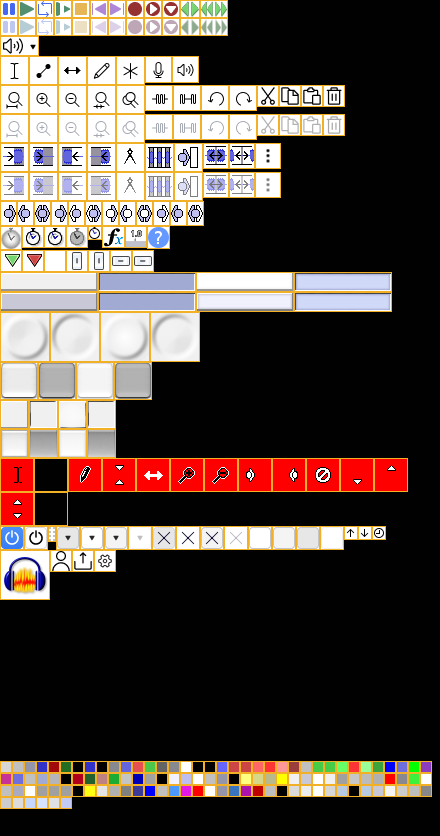
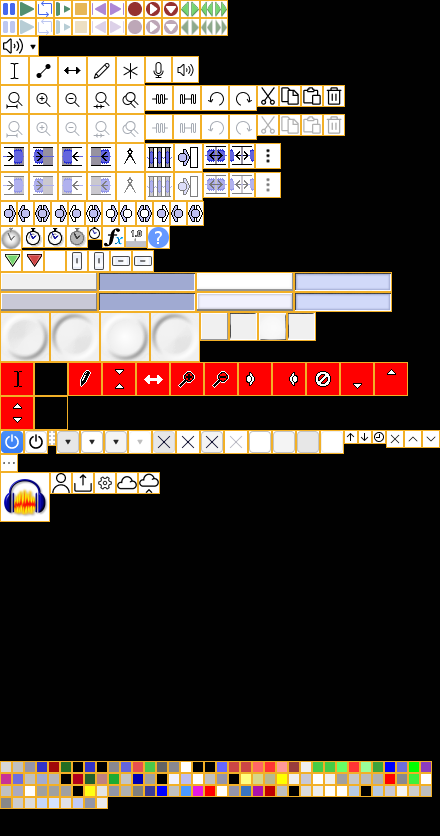
update classic theme

diff --git a/Classic/ImageCache.htm b/Classic/ImageCache.htm
@@ -119,54 +119,52 @@
 <area title="Bitmap:DownButtonLarge" shape=rect coords="51,313,98,360">
 <area title="Bitmap:HiliteUpButtonLarge" shape=rect coords="101,313,148,360">
 <area title="Bitmap:HiliteButtonLarge" shape=rect coords="151,313,198,360">
-<area title="Bitmap:MacUpButton" shape=rect coords="1,363,36,398">
-<area title="Bitmap:MacDownButton" shape=rect coords="39,363,74,398">
-<area title="Bitmap:MacHiliteUpButton" shape=rect coords="77,363,112,398">
-<area title="Bitmap:MacHiliteButton" shape=rect coords="115,363,150,398">
-<area title="Bitmap:UpButtonSmall" shape=rect coords="1,401,27,427">
-<area title="Bitmap:DownButtonSmall" shape=rect coords="30,401,56,427">
-<area title="Bitmap:HiliteUpButtonSmall" shape=rect coords="59,401,85,427">
-<area title="Bitmap:HiliteButtonSmall" shape=rect coords="88,401,114,427">
-<area title="Bitmap:MacUpButtonSmall" shape=rect coords="1,430,27,456">
-<area title="Bitmap:MacDownButtonSmall" shape=rect coords="30,430,56,456">
-<area title="Bitmap:MacHiliteUpButtonSmall" shape=rect coords="59,430,85,456">
-<area title="Bitmap:MacHiliteButtonSmall" shape=rect coords="88,430,114,456">
-<area title="Bitmap:IBeamCursor" shape=rect coords="1,459,32,490">
-<area title="Bitmap:CrosshairCursor" shape=rect coords="35,459,66,490">
-<area title="Bitmap:DrawCursor" shape=rect coords="69,459,100,490">
-<area title="Bitmap:EnvCursor" shape=rect coords="103,459,134,490">
-<area title="Bitmap:TimeCursor" shape=rect coords="137,459,168,490">
-<area title="Bitmap:ZoomInCursor" shape=rect coords="171,459,202,490">
-<area title="Bitmap:ZoomOutCursor" shape=rect coords="205,459,236,490">
-<area title="Bitmap:LabelCursorLeft" shape=rect coords="239,459,270,490">
-<area title="Bitmap:LabelCursorRight" shape=rect coords="273,459,304,490">
-<area title="Bitmap:DisabledCursor" shape=rect coords="307,459,338,490">
-<area title="Bitmap:BottomFrequencyCursor" shape=rect coords="341,459,372,490">
-<area title="Bitmap:TopFrequencyCursor" shape=rect coords="375,459,406,490">
-<area title="Bitmap:BandWidthCursor" shape=rect coords="1,493,32,524">
-<area title="Bitmap:SubViewsCursor" shape=rect coords="35,493,66,524">
-<area title="Bitmap:EffectOn" shape=rect coords="1,527,22,548">
-<area title="Bitmap:EffectOff" shape=rect coords="25,527,46,548">
-<area title="Bitmap:DragArea" shape=rect coords="49,527,54,540">
-<area title="Bitmap:MoreDown" shape=rect coords="57,527,78,548">
-<area title="Bitmap:MoreNormal" shape=rect coords="81,527,102,548">
-<area title="Bitmap:MoreHover" shape=rect coords="105,527,126,548">
-<area title="Bitmap:MoreDisabled" shape=rect coords="129,527,150,548">
-<area title="Bitmap:CloseDown" shape=rect coords="153,527,174,548">
-<area title="Bitmap:CloseNormal" shape=rect coords="177,527,198,548">
-<area title="Bitmap:CloseHover" shape=rect coords="201,527,222,548">
-<area title="Bitmap:CloseDisabled" shape=rect coords="225,527,246,548">
-<area title="Bitmap:HButtonNormal" shape=rect coords="249,527,270,548">
-<area title="Bitmap:HButtonHover" shape=rect coords="273,527,294,548">
-<area title="Bitmap:HButtonDown" shape=rect coords="297,527,318,548">
-<area title="Bitmap:HButtonDisabled" shape=rect coords="321,527,342,548">
-<area title="Bitmap:PitchUpIndicator" shape=rect coords="345,527,356,538">
-<area title="Bitmap:PitchDownIndicator" shape=rect coords="359,527,370,538">
-<area title="Bitmap:speedIndicator" shape=rect coords="373,527,384,538">
-<area title="Bitmap:AudacityLogo48x48" shape=rect coords="1,551,48,598">
-<area title="Bitmap:AnonymousUser" shape=rect coords="51,551,70,570">
-<area title="Bitmap:ShareAudio" shape=rect coords="73,551,92,570">
-<area title="Bitmap:Cogwheel" shape=rect coords="95,551,114,570">
+<area title="Bitmap:UpButtonSmall" shape=rect coords="201,313,227,339">
+<area title="Bitmap:DownButtonSmall" shape=rect coords="230,313,256,339">
+<area title="Bitmap:HiliteUpButtonSmall" shape=rect coords="259,313,285,339">
+<area title="Bitmap:HiliteButtonSmall" shape=rect coords="288,313,314,339">
+<area title="Bitmap:IBeamCursor" shape=rect coords="1,363,32,394">
+<area title="Bitmap:CrosshairCursor" shape=rect coords="35,363,66,394">
+<area title="Bitmap:DrawCursor" shape=rect coords="69,363,100,394">
+<area title="Bitmap:EnvCursor" shape=rect coords="103,363,134,394">
+<area title="Bitmap:TimeCursor" shape=rect coords="137,363,168,394">
+<area title="Bitmap:ZoomInCursor" shape=rect coords="171,363,202,394">
+<area title="Bitmap:ZoomOutCursor" shape=rect coords="205,363,236,394">
+<area title="Bitmap:LabelCursorLeft" shape=rect coords="239,363,270,394">
+<area title="Bitmap:LabelCursorRight" shape=rect coords="273,363,304,394">
+<area title="Bitmap:DisabledCursor" shape=rect coords="307,363,338,394">
+<area title="Bitmap:BottomFrequencyCursor" shape=rect coords="341,363,372,394">
+<area title="Bitmap:TopFrequencyCursor" shape=rect coords="375,363,406,394">
+<area title="Bitmap:BandWidthCursor" shape=rect coords="1,397,32,428">
+<area title="Bitmap:SubViewsCursor" shape=rect coords="35,397,66,428">
+<area title="Bitmap:EffectOn" shape=rect coords="1,431,22,452">
+<area title="Bitmap:EffectOff" shape=rect coords="25,431,46,452">
+<area title="Bitmap:DragArea" shape=rect coords="49,431,54,444">
+<area title="Bitmap:MoreDown" shape=rect coords="57,431,78,452">
+<area title="Bitmap:MoreNormal" shape=rect coords="81,431,102,452">
+<area title="Bitmap:MoreHover" shape=rect coords="105,431,126,452">
+<area title="Bitmap:MoreDisabled" shape=rect coords="129,431,150,452">
+<area title="Bitmap:CloseDown" shape=rect coords="153,431,174,452">
+<area title="Bitmap:CloseNormal" shape=rect coords="177,431,198,452">
+<area title="Bitmap:CloseHover" shape=rect coords="201,431,222,452">
+<area title="Bitmap:CloseDisabled" shape=rect coords="225,431,246,452">
+<area title="Bitmap:HButtonNormal" shape=rect coords="249,431,270,452">
+<area title="Bitmap:HButtonHover" shape=rect coords="273,431,294,452">
+<area title="Bitmap:HButtonDown" shape=rect coords="297,431,318,452">
+<area title="Bitmap:HButtonDisabled" shape=rect coords="321,431,342,452">
+<area title="Bitmap:PitchUpIndicator" shape=rect coords="345,431,356,442">
+<area title="Bitmap:PitchDownIndicator" shape=rect coords="359,431,370,442">
+<area title="Bitmap:speedIndicator" shape=rect coords="373,431,384,442">
+<area title="Bitmap:TCPClose" shape=rect coords="387,431,402,446">
+<area title="Bitmap:TCPChevron" shape=rect coords="405,431,420,446">
+<area title="Bitmap:TCPChevronDown" shape=rect coords="423,431,438,446">
+<area title="Bitmap:TCPEllipses" shape=rect coords="1,455,16,470">
+<area title="Bitmap:AudacityLogo48x48" shape=rect coords="1,473,48,520">
+<area title="Bitmap:AnonymousUser" shape=rect coords="51,473,70,492">
+<area title="Bitmap:ShareAudio" shape=rect coords="73,473,92,492">
+<area title="Bitmap:Cogwheel" shape=rect coords="95,473,114,492">
+<area title="Bitmap:Cloud" shape=rect coords="117,473,136,492">
+<area title="Bitmap:CloudProgress" shape=rect coords="139,473,158,492">
 <area title="Colour:Blank" shape=rect coords="1,762,10,771">
 <area title="Colour:Unselected" shape=rect coords="13,762,22,771">
 <area title="Colour:Selected" shape=rect coords="25,762,34,771">
@@ -248,39 +246,42 @@
 <area title="Colour:GraphLabels" shape=rect coords="73,786,82,795">
 <area title="Colour:SpectroBackground" shape=rect coords="85,786,94,795">
 <area title="Colour:ScrubRuler" shape=rect coords="97,786,106,795">
-<area title="Colour:TimeHours" shape=rect coords="109,786,118,795">
-<area title="Colour:MidiZebra" shape=rect coords="121,786,130,795">
-<area title="Colour:MidiLines" shape=rect coords="133,786,142,795">
-<area title="Colour:TextNegativeNumbers" shape=rect coords="145,786,154,795">
-<area title="Colour:Spectro1" shape=rect coords="157,786,166,795">
-<area title="Colour:Spectro2" shape=rect coords="169,786,178,795">
-<area title="Colour:Spectro3" shape=rect coords="181,786,190,795">
-<area title="Colour:Spectro4" shape=rect coords="193,786,202,795">
-<area title="Colour:Spectro5" shape=rect coords="205,786,214,795">
-<area title="Colour:Spectro1Sel" shape=rect coords="217,786,226,795">
-<area title="Colour:Spectro2Sel" shape=rect coords="229,786,238,795">
-<area title="Colour:Spectro3Sel" shape=rect coords="241,786,250,795">
-<area title="Colour:Spectro4Sel" shape=rect coords="253,786,262,795">
-<area title="Colour:Spectro5Sel" shape=rect coords="265,786,274,795">
-<area title="Colour:ClipAffordanceOutlinePen" shape=rect coords="277,786,286,795">
-<area title="Colour:ClipAffordanceUnselectedBrush" shape=rect coords="289,786,298,795">
-<area title="Colour:ClipAffordanceSelectedBrush" shape=rect coords="301,786,310,795">
-<area title="Colour:ClipAffordanceStroke" shape=rect coords="313,786,322,795">
-<area title="Colour:ClipAffordanceBackground" shape=rect coords="325,786,334,795">
-<area title="Colour:LabelTrackTextSelection" shape=rect coords="337,786,346,795">
-<area title="Colour:ClipNameText" shape=rect coords="349,786,358,795">
-<area title="Colour:ClipNameTextSelection" shape=rect coords="361,786,370,795">
-<area title="Colour:DropHintHighlight" shape=rect coords="373,786,382,795">
-<area title="Colour:EffectListItemBackground" shape=rect coords="385,786,394,795">
-<area title="Colour:EffectListItemBorder" shape=rect coords="397,786,406,795">
-<area title="Colour:BeatSeparatorPen" shape=rect coords="409,786,418,795">
-<area title="Colour:BarSeparatorPen" shape=rect coords="421,786,430,795">
-<area title="Colour:BeatFillStrongBrush" shape=rect coords="1,798,10,807">
-<area title="Colour:BeatFillWeakBrush" shape=rect coords="13,798,22,807">
-<area title="Colour:BeatFillStrongSelBrush" shape=rect coords="25,798,34,807">
-<area title="Colour:BeatFillWeakSelBrush" shape=rect coords="37,798,46,807">
-<area title="Colour:LoopEnabled" shape=rect coords="49,798,58,807">
-<area title="Colour:LoopNotEnabled" shape=rect coords="61,798,70,807">
+<area title="Colour:RulerSelected" shape=rect coords="109,786,118,795">
+<area title="Colour:TimeHours" shape=rect coords="121,786,130,795">
+<area title="Colour:MidiZebra" shape=rect coords="133,786,142,795">
+<area title="Colour:MidiLines" shape=rect coords="145,786,154,795">
+<area title="Colour:TextNegativeNumbers" shape=rect coords="157,786,166,795">
+<area title="Colour:Spectro1" shape=rect coords="169,786,178,795">
+<area title="Colour:Spectro2" shape=rect coords="181,786,190,795">
+<area title="Colour:Spectro3" shape=rect coords="193,786,202,795">
+<area title="Colour:Spectro4" shape=rect coords="205,786,214,795">
+<area title="Colour:Spectro5" shape=rect coords="217,786,226,795">
+<area title="Colour:Spectro1Sel" shape=rect coords="229,786,238,795">
+<area title="Colour:Spectro2Sel" shape=rect coords="241,786,250,795">
+<area title="Colour:Spectro3Sel" shape=rect coords="253,786,262,795">
+<area title="Colour:Spectro4Sel" shape=rect coords="265,786,274,795">
+<area title="Colour:Spectro5Sel" shape=rect coords="277,786,286,795">
+<area title="Colour:ClipAffordanceOutlinePen" shape=rect coords="289,786,298,795">
+<area title="Colour:ClipAffordanceUnselectedBrush" shape=rect coords="301,786,310,795">
+<area title="Colour:ClipAffordanceSelectedBrush" shape=rect coords="313,786,322,795">
+<area title="Colour:ClipAffordanceStroke" shape=rect coords="325,786,334,795">
+<area title="Colour:ClipAffordanceButton" shape=rect coords="337,786,346,795">
+<area title="Colour:LabelTrackTextSelection" shape=rect coords="349,786,358,795">
+<area title="Colour:ClipNameText" shape=rect coords="361,786,370,795">
+<area title="Colour:ClipNameTextSelection" shape=rect coords="373,786,382,795">
+<area title="Colour:DropHintHighlight" shape=rect coords="385,786,394,795">
+<area title="Colour:EffectListItemBackground" shape=rect coords="397,786,406,795">
+<area title="Colour:EffectListItemBorder" shape=rect coords="409,786,418,795">
+<area title="Colour:BeatSeparatorPen" shape=rect coords="421,786,430,795">
+<area title="Colour:BarSeparatorPen" shape=rect coords="1,798,10,807">
+<area title="Colour:BeatFillStrongBrush" shape=rect coords="13,798,22,807">
+<area title="Colour:BeatFillWeakBrush" shape=rect coords="25,798,34,807">
+<area title="Colour:BeatFillStrongSelBrush" shape=rect coords="37,798,46,807">
+<area title="Colour:BeatFillWeakSelBrush" shape=rect coords="49,798,58,807">
+<area title="Colour:LoopEnabled" shape=rect coords="61,798,70,807">
+<area title="Colour:LoopNotEnabled" shape=rect coords="73,798,82,807">
+<area title="Colour:Grabber" shape=rect coords="85,798,94,807">
+<area title="Colour:TimelineRulerBackground" shape=rect coords="97,798,106,807">
 </map>
 </body>
 </html>
